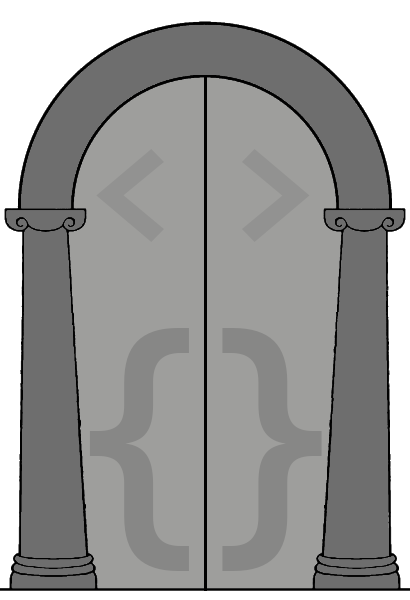
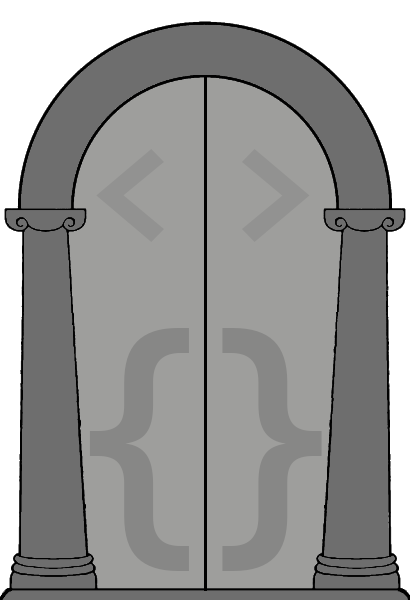
door styling

Changed region(s): [[0.0, 0.96, 1.0, 1.0]]

diff --git a/src/Playground.js b/src/Playground.js
@@ -12,6 +12,7 @@ import { Pillar } from "./Pillar";
 import { Parameter } from "./Parameter";
 import { Avatar } from "./Avatar";
 import { Nav } from "./Nav";
+import door from "./img/door.png";
 
 var c = {
   id: 999,
@@ -85,7 +86,7 @@ export class Playground extends Component {
             />
             {/* <Parameter /> */}
           </Pillar>
-          <Avatar imgClassName={"door"} />
+          <Avatar className="av-door" imgClassName={"door"} img={door} />
         </Scene>
       </Nav>
     );

diff --git a/src/Avatar.js b/src/Avatar.js
@@ -3,7 +3,7 @@ import React, { Component } from "react";
 export class Avatar extends Component {
   render() {
     return (
-      <div className="avatar">
+      <div className={"avatar " + this.props.className}>
         <img
           className={this.props.imgClassName}
           src={this.props.img}

diff --git a/src/less/scene.less b/src/less/scene.less
@@ -39,6 +39,14 @@
     margin: 0 auto;
     display: block;
   }
+
+  &.av-door {
+    bottom: @footerHeight;
+    right: 100px;
+    img.door {
+      width: 300px;
+    }
+  }
 }
 
 .footer {
